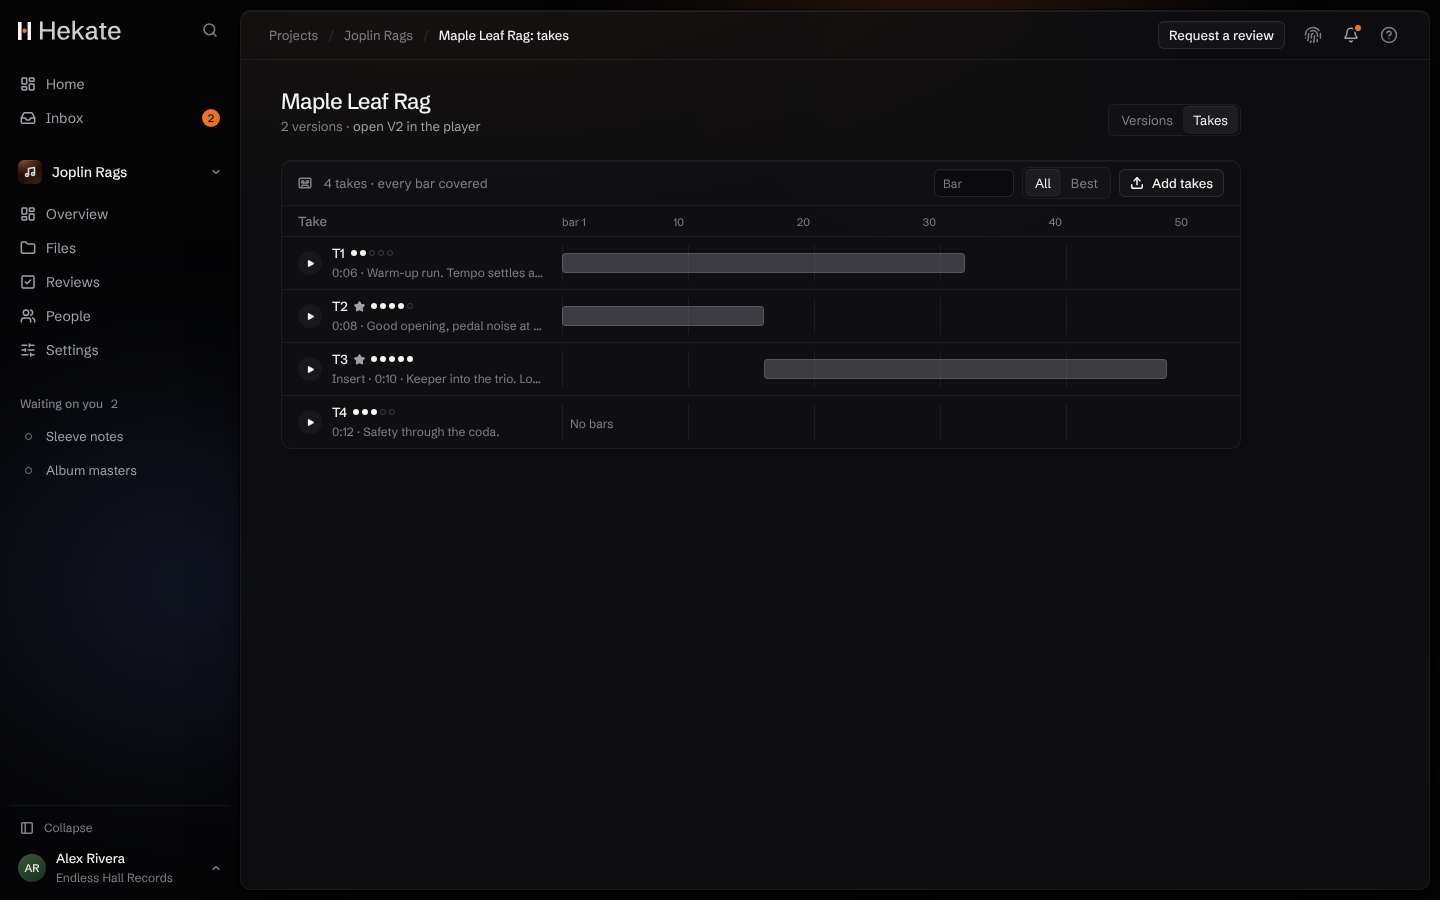
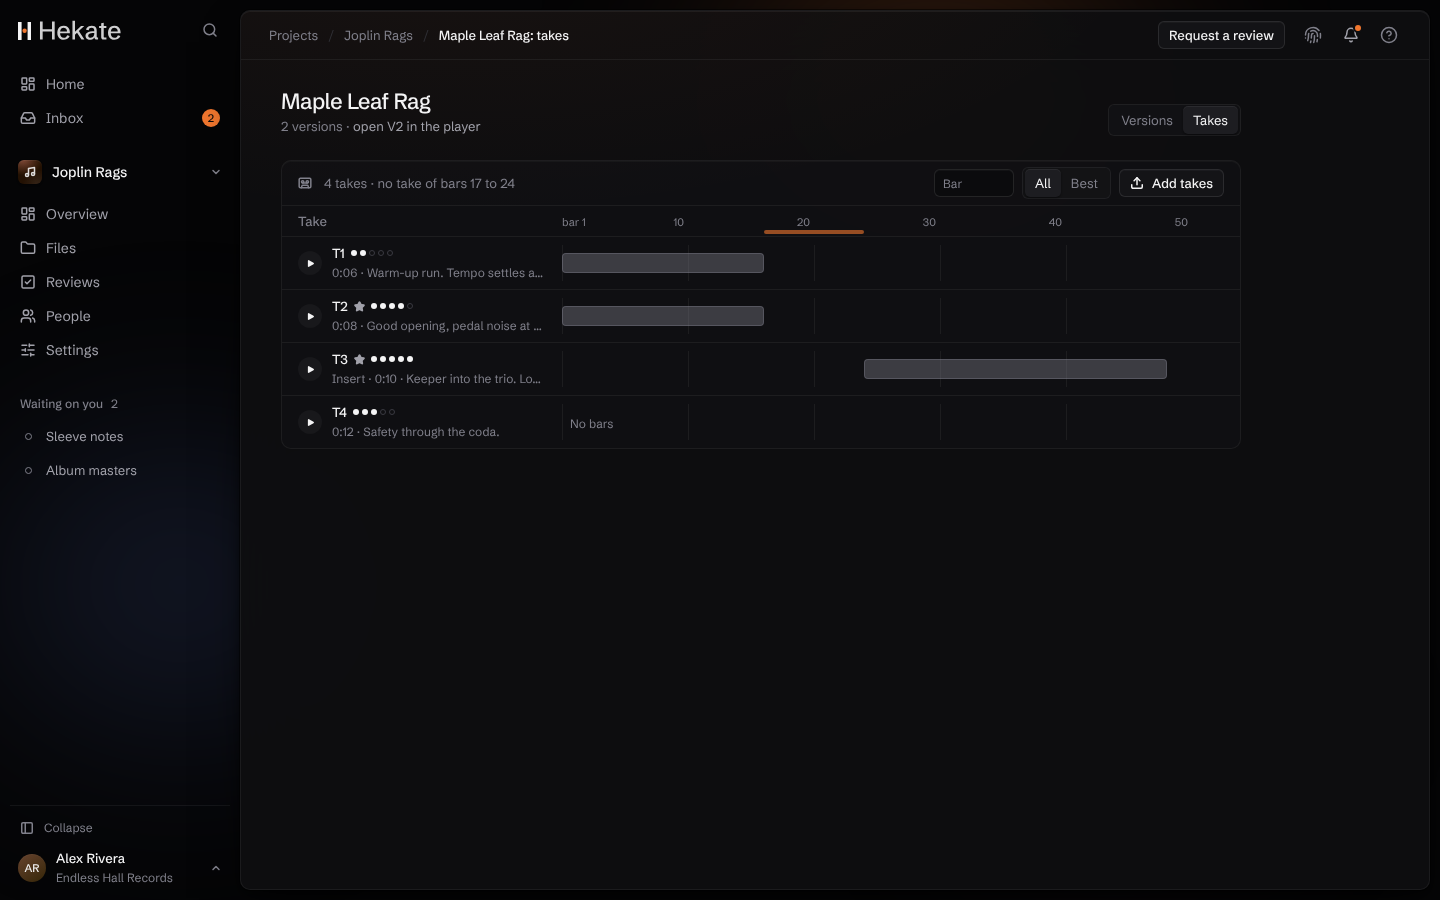
feat: other takes for a bar from its thread, and the bars no take covers (#272)
A thread on a track's bars lists the takes covering its first bar, best
first, for those who may see takes; the takes view marks and names the
bars no take covers (#46).

Claude-Session: https://claude.ai/code/session_015TRj2XJrf2hGBbTKBkRfmp

diff --git a/apps/web/src/components/takes.tsx b/apps/web/src/components/takes.tsx
@@ -4,6 +4,7 @@ import {
   clockOf,
   coverageGaps,
   formatDuration,
+  gapsLabel,
   parseClock,
   TAKE_RATING_MAX,
   type TakeChange,
@@ -143,7 +144,7 @@ export function TakeManager({ track }: { track: Track }) {
   const shown = filter === "best" ? ordered.filter((t) => t.starred || t.rating >= 4) : ordered;
   const withBars = takes.some((t) => t.barFrom !== null);
   const end = rulerEnd(takes);
-  const gaps = coverageGaps(takes).reduce((n, [a, b]) => n + b - a + 1, 0);
+  const gaps = coverageGaps(takes);
   const addButton = canAdd && (
     <>
       <FileInput
@@ -196,7 +197,8 @@ export function TakeManager({ track }: { track: Track }) {
             <Icon name="take" size={14} className="text-ink-3" />
             <span className="text-ink-3">
               {takes.length} {takes.length === 1 ? "take" : "takes"}
-              {withBars && (gaps > 0 ? ` · ${gaps} bars uncovered` : " · every bar covered")}
+              {withBars &&
+                (gaps.length > 0 ? ` · no take of ${gapsLabel(gaps)}` : " · every bar covered")}
             </span>
             <div className="ml-auto flex flex-wrap items-center gap-2">
               {withBars && (
@@ -250,6 +252,17 @@ export function TakeManager({ track }: { track: Track }) {
                       >
                         {i === 0 ? "bar 1" : i * 10}
                       </span>
+                    ))}
+                    {/* The bars no take covers, marked under the ruler. */}
+                    {gaps.map(([from, to]) => (
+                      <span
+                        key={from}
+                        className="absolute bottom-0 h-1 rounded-full bg-signal/60"
+                        style={{
+                          left: `${(from - 1) * (100 / end)}%`,
+                          width: `${(to - from + 1) * (100 / end)}%`,
+                        }}
+                      />
                     ))}
                   </span>
                   <span />
@@ -571,5 +584,113 @@ function EditTake({
         )}
       </form>
     </Dialog>
+  );
+}
+
+/**
+ * "Any other options for bar 72?" (#46): from a thread on a bar, every take of the track
+ * covering it, starred first and then by rating, each one click from the player.
+ */
+export function OtherTakes({
+  trackId,
+  bar,
+  onClose,
+}: {
+  trackId: string;
+  bar: number;
+  onClose: () => void;
+}) {
+  const { data: takes, error } = useQuery(trackTakesQuery(trackId));
+  const list = takes ? takesCovering(takes, bar) : [];
+  return (
+    <section
+      aria-label={`Other takes for bar ${bar}`}
+      className="rounded-panel border border-line bg-ground"
+    >
+      <div className="flex items-center gap-2 border-b border-line py-1 pr-1 pl-3">
+        <Icon name="take" size={14} className="text-ink-3" />
+        <span className="text-[13px] font-medium text-ink">Other takes for bar {bar}</span>
+        {takes && <span className="text-[12px] text-ink-3">{list.length} cover it</span>}
+        <Button
+          variant="ghost"
+          size="iconSm"
+          aria-label="Close the takes"
+          onClick={onClose}
+          className="ml-auto"
+        >
+          <Icon name="close" size={13} />
+        </Button>
+      </div>
+      {error ? (
+        <p className="m-0 px-3 py-2 text-[13px] text-signal">{error.message}</p>
+      ) : !takes ? (
+        <p className="m-0 px-3 py-2 text-[13px] text-ink-3">Loading</p>
+      ) : list.length === 0 ? (
+        <p className="m-0 px-3 py-2 text-[13px] text-ink-3">
+          No take covers bar {bar}. A take's bars are set in the track's takes.
+        </p>
+      ) : (
+        <ul className="m-0 list-none p-0">
+          {list.map((t) => (
+            <li key={t.id} className="border-b border-line last:border-b-0">
+              {t.file ? (
+                <Link
+                  to="/files/$fileId"
+                  params={{ fileId: t.file.id }}
+                  className="flex items-center gap-2.5 px-3 py-1.5 no-underline hover:bg-raised/40"
+                >
+                  <OtherTake take={t} />
+                </Link>
+              ) : (
+                <span className="flex items-center gap-2.5 px-3 py-1.5">
+                  <OtherTake take={t} />
+                </span>
+              )}
+            </li>
+          ))}
+        </ul>
+      )}
+      <div className="border-t border-line px-3 py-1.5">
+        <Link
+          to="/tracks/$trackId"
+          params={{ trackId }}
+          search={{ view: "takes" }}
+          className="text-[12px] text-ink-3 hover:text-ink"
+        >
+          All the track's takes
+        </Link>
+      </div>
+    </section>
+  );
+}
+
+function OtherTake({ take }: { take: TakeRow }) {
+  return (
+    <>
+      <span className="flex size-6 shrink-0 items-center justify-center rounded-full bg-raised text-ink">
+        <Icon name="play" size={9} fill="currentColor" strokeWidth={0} />
+      </span>
+      <span className="min-w-0 flex-1">
+        <span className="flex items-center gap-1.5 text-[13px] text-ink">
+          <span className="tabular font-medium">T{take.number}</span>
+          {take.starred && (
+            <Icon
+              name="star"
+              size={11}
+              fill="currentColor"
+              aria-label="Starred"
+              className="text-ink-2"
+            />
+          )}
+          <Rating value={take.rating} />
+        </span>
+        <span className="block truncate text-[12px] text-ink-3">
+          {[barsLabel(take), take.label, take.notes].filter(Boolean).join(" · ")}
+        </span>
+      </span>
+      {take.file?.duration != null && (
+        <span className="tabular text-[12px] text-ink-3">{formatDuration(take.file.duration)}</span>
+      )}
+    </>
   );
 }

diff --git a/apps/web/src/components/comments.tsx b/apps/web/src/components/comments.tsx
@@ -51,6 +51,7 @@ import { useViewer } from "~/lib/viewer";
 import { Avatar } from "./avatar";
 import type { RegionMarker } from "./document-viewer";
 import { Icon } from "./icons";
+import { OtherTakes } from "./takes";
 import { Button } from "./ui/button";
 import { Chip, ToggleChip } from "./ui/chip";
 import { Dialog } from "./ui/dialog";
@@ -627,6 +628,7 @@ function ThreadView({
   people,
   marker,
   pages,
+  takesOf,
 }: {
   thread: Thread;
   /** The file being looked at, which a carried thread was brought to. */
@@ -651,8 +653,11 @@ function ThreadView({
   /** The thread's number on the page, when it points at a region of it. */
   marker?: RegionMarker;
   pages?: PageComments;
+  /** The track whose takes a thread on a bar can list (#46), for those who may see takes. */
+  takesOf?: string;
 }) {
   const [replying, setReplying] = useState(false);
+  const [takesOpen, setTakesOpen] = useState(false);
   const [asking, setAsking] = useState<"defer" | "assign" | null>(null);
   const { comment, replies } = thread;
   const anchor = comment.anchor;
@@ -940,6 +945,9 @@ function ThreadView({
           ))}
         </ul>
       )}
+      {takesOpen && takesOf && anchor?.kind === "bar" && (
+        <OtherTakes trackId={takesOf} bar={anchor.from.bar} onClose={() => setTakesOpen(false)} />
+      )}
       {replying ? (
         <Composer
           placeholder="Reply"
@@ -963,6 +971,16 @@ function ThreadView({
           {!comment.resolvedAt && canComment && (
             <button type="button" onClick={() => setReplying(true)} className={textButton}>
               Reply
+            </button>
+          )}
+          {takesOf && anchor?.kind === "bar" && (
+            <button
+              type="button"
+              aria-expanded={takesOpen}
+              onClick={() => setTakesOpen((open) => !open)}
+              className={textButton}
+            >
+              Other takes
             </button>
           )}
           {carry && onBeforeAfter && from?.kind === "time" && anchor?.kind === "time" && (
@@ -1020,6 +1038,8 @@ export function Comments({
   const { data: file } = useQuery(fileQuery(fileId));
   const canComment = guest ? Boolean(file?.grant?.comment) : can("comment");
   const canTriage = !guest && can("triage");
+  // A thread on a bar of a track's version can list the track's takes of that bar (#46).
+  const takesOf = !guest && can("view_takes") ? file?.variation?.trackId : undefined;
   const { data: me } = useQuery(meQuery);
   const mutations = useCommentMutations(fileId);
   // Categories name each thread's kind for members; whom to assign to, for those who triage.
@@ -1302,6 +1322,7 @@ export function Comments({
       people={people}
       marker={markers.find((m) => m.id === t.comment.id)}
       pages={pages}
+      takesOf={takesOf}
     />
   );
 

diff --git a/apps/e2e/tests/screens.spec.ts b/apps/e2e/tests/screens.spec.ts
@@ -226,7 +226,7 @@ const screens: Screen[] = [
   {
     name: "track-takes",
     path: (s) => `/tracks/${s.trackId}?view=takes`,
-    ready: "text=Keeper into the trio",
+    ready: "text=no take of bars 17 to 24",
   },
   {
     name: "file-recording",
@@ -626,6 +626,23 @@ test("file-comment-mention", async ({ page }, info) => {
   await checkScreen(page);
 });
 
+// "Any other options for these bars?" (#46): the takes covering a bar thread's first bar.
+test("file-comment-other-takes", async ({ page }) => {
+  await page.clock.setFixedTime(FIXED_TIME);
+  await page.goto(`/files/${seeded().dryFileId}`);
+  await settle(page, "section[aria-label=Comments] li");
+  const thread = page
+    .getByRole("listitem")
+    .filter({ hasText: "The left hand rushes through these bars." });
+  await thread.getByRole("button", { name: "Other takes" }).click();
+  const panel = page.getByRole("region", { name: "Other takes for bar 9" });
+  await expect(panel.getByRole("listitem")).toHaveCount(2);
+  await expect(panel).toContainText("Good opening");
+  await panel.evaluate((el) => el.scrollIntoView({ block: "center" }));
+  await saveScreen(page, "file-comment-other-takes");
+  await checkScreen(page);
+});
+
 // Attaching files to a comment (#133): chosen, shown before sending, and on the thread.
 test("file-comment-attach", async ({ page }, info) => {
   test.skip(info.project.name === "phone", "On a phone the composer is a sheet, captured apart");
@@ -889,9 +906,9 @@ test("track-new-version", async ({ page }) => {
 // A track's takes (#21, #46): those covering a bar, then one take's details being edited.
 test("track-takes-edit", async ({ page }) => {
   await page.goto(`/tracks/${seeded().trackId}?view=takes`);
-  await page.getByLabel("Only the takes covering a bar").fill("20");
+  await page.getByLabel("Only the takes covering a bar").fill("30");
   const list = page.getByRole("list", { name: "Takes of this track" });
-  await expect(list.getByRole("listitem")).toHaveCount(2);
+  await expect(list.getByRole("listitem")).toHaveCount(1);
   await expect(list).toContainText("Keeper into the trio");
   await saveScreen(page, "track-takes-bar");
   await checkScreen(page);

diff --git a/apps/e2e/tests/seed.setup.ts b/apps/e2e/tests/seed.setup.ts
@@ -211,7 +211,7 @@ setup("seed", async ({ page, browser }) => {
     ],
   });
   // Four takes of it from the sessions (#21), in a folder of their own: three with bars, rated
-  // and noted, and one without.
+  // and noted, leaving bars 17 to 24 uncovered, and one without bars.
   const { folder: sessionFolder } = await api<{ folder: { id: string } }>(
     page,
     "POST",
@@ -232,7 +232,7 @@ setup("seed", async ({ page, browser }) => {
   const takeDetails = [
     {
       barFrom: 1,
-      barTo: 32,
+      barTo: 16,
       page: 1,
       rating: 2,
       notes: "Warm-up run. Tempo settles after the repeat.",
@@ -246,7 +246,7 @@ setup("seed", async ({ page, browser }) => {
       notes: "Good opening, pedal noise at bar 5.",
     },
     {
-      barFrom: 17,
+      barFrom: 25,
       barTo: 48,
       page: 2,
       rating: 5,

diff --git a/packages/shared/src/takes.ts b/packages/shared/src/takes.ts
@@ -109,6 +109,14 @@ export function coverageGaps(all: Pick<TakePlace, "barFrom" | "barTo">[]): [numb
   return gaps;
 }
 
+/** Uncovered bars as said: "bars 33 to 40 and 52", or "bars 9 to 12, 20 and 33 to 40". */
+export function gapsLabel(gaps: [number, number][]): string {
+  const parts = gaps.map(([a, b]) => (a === b ? `${a}` : `${a} to ${b}`));
+  const single = gaps.length === 1 && gaps[0]?.[0] === gaps[0]?.[1];
+  const list = parts.length > 1 ? `${parts.slice(0, -1).join(", ")} and ${parts.at(-1)}` : parts[0];
+  return `${single ? "bar" : "bars"} ${list}`;
+}
+
 /** "bars 64 to 88", "bar 12", or null for a take without bars. */
 export function barsLabel(t: Pick<TakePlace, "barFrom" | "barTo">): string | null {
   const r = barsOf(t);

diff --git a/packages/shared/src/takes.test.ts b/packages/shared/src/takes.test.ts
@@ -4,6 +4,7 @@ import {
   clockOf,
   coverageGaps,
   covers,
+  gapsLabel,
   parseClock,
   takeChangeInput,
   takeProblem,
@@ -50,6 +51,15 @@ describe("takes and their bars", () => {
       [11, 14],
     ]);
     expect(coverageGaps([take(1, 0, 8)])).toEqual([]);
+    expect(gapsLabel([[33, 40]])).toBe("bars 33 to 40");
+    expect(gapsLabel([[52, 52]])).toBe("bar 52");
+    expect(
+      gapsLabel([
+        [9, 12],
+        [20, 20],
+        [33, 40],
+      ]),
+    ).toBe("bars 9 to 12, 20 and 33 to 40");
   });
 
   it("refuses bars and points in the wrong order", () => {

diff --git a/apps/prototype/src/components/comments/thread.tsx b/apps/prototype/src/components/comments/thread.tsx
@@ -289,7 +289,7 @@ export function Thread({
             }}
             className={action}
           >
-            Attach takes
+            Other takes
           </button>
         )}
         {(canTriage || mine) && (

diff --git a/docs/decisions.md b/docs/decisions.md
@@ -284,3 +284,7 @@ A comment's author can attach up to five files of 25 MB each to it (#133): a pho
 ## 070. A take belongs to its track, sessions record tracks, and bars are optional
 
 Takes hang from tracks, not from sessions (#21): a track has many takes, numbered in the order they are added, and a session is linked to the tracks it recorded, many to many, since a track is often recorded across several days and a day records several tracks. A take is one file for now, its scratch mix, which is any audio or video file already in the project (or uploaded into the track's folder from the take manager) and not a version's; uploading one file per microphone follows. Its rating (out of five), star, notes and label are the producer's, and its score page, bar range and in and out points are all optional, because bars matter for a classical piece and rarely for a pop song. A take with bars is found by them: asking a track for the takes covering a bar lists the starred ones first, then by rating, then in order, from one pure function in `packages/shared` (`takesCovering`), which the coverage view and "Other takes for bar N" on a bar comment (#46's second part) will also call. Seeing takes needs the project's takes level of View, changing them Edit; a file that is a take says so in its details only to those who can see takes. No version of Hekate could make a take before this, so the migration removes any rows the old shape held rather than guessing a track for them. Sessions' own pages, importing takes with their metadata (#45), matching takes to tracks by their audio, and reading an edit map from the editor's project follow.
+
+## 071. A thread on a bar lists the takes covering it, and the takes view marks what none covers
+
+"Any other options for bar 72?" is answered where it is asked (#46): a thread anchored to bars on a track's version offers **Other takes**, which lists every take of that track covering the thread's first bar, starred first, then by rating, then in order, from the same `takesCovering` the track's takes view uses. It is offered only to members whose role lets them see takes; a guest reviewer never sees it, and will hear only the takes shared with them on a thread when sharing is built (#133). The takes view marks the bars no take covers under its ruler and names them ("no take of bars 17 to 24"), from `coverageGaps`, counting from bar 1 to the last bar any take reaches. Auditioning a take at the bar, looped and level-matched, and which take the current version uses, wait for the audition player and the edit decisions (#56).

diff --git a/apps/prototype/docs/inventory.md b/apps/prototype/docs/inventory.md
@@ -123,7 +123,7 @@ Each screen lists its states. Every screen is designed at desktop (1440) and pho
 | Take import | Drop every session file; the proposed tree (sessions, takes by take number and timecode, one file per microphone, the summed mix, assignment to tracks by matching audio) with confidence, bulk fixes and undo; file-name patterns. | Unplaced files; a grouping to fix; progress for thousands of files. | #45 |
 | Session | The tracks it recorded, and their takes logged that day: number, rating, starred, false starts, notes, timecode, coverage (page and bar range), microphones, used in which version. A take belongs to its track, not the session. | Empty session; a take with no coverage. | #21 |
 | Take | Play a take with its microphones (solo, mute, summed mix), loop, rating and notes, coverage, its place in the score; quick-compare takes; share to a comment. | Processing. | #21 #44 |
-| Other options for bar 72 | From a bar comment: every take covering the bar with rating, stars and notes, which is in the current version, audition at the bar looped and level-matched; share chosen takes to the thread. | None cover it; takes not aligned. | #46 |
+| Other options for bar 72 | From a bar comment ("Other takes"): every take covering the thread's first bar, starred first, then by rating, with its bars and notes, each opening in the player; a link to all the track's takes. Then: which is in the current version, audition at the bar looped and level-matched, and sharing chosen takes to the thread. | None cover it; takes not aligned. | #46 |
 | Take coverage | A track's takes (its Takes view): which cover which bars, as a grid across the track; gaps; a bar to find the takes covering it; all or the best; add takes by dropping or choosing files (each a scratch mix for now); edit a take's label, rating, star, notes, page, bars and in and out points. Bars are optional: a take without them says so. | No takes; no coverage entered; a take without bars. | #21 #46 |
 | Edit decisions | Which takes a version uses for which bars, imported from an EDL (CMX 3600, Pyramix, Sequoia), matched to takes; a lane on the waveform and score; the check that every hand-over matches. | No EDL; an unmatched event. | #56 |
 
